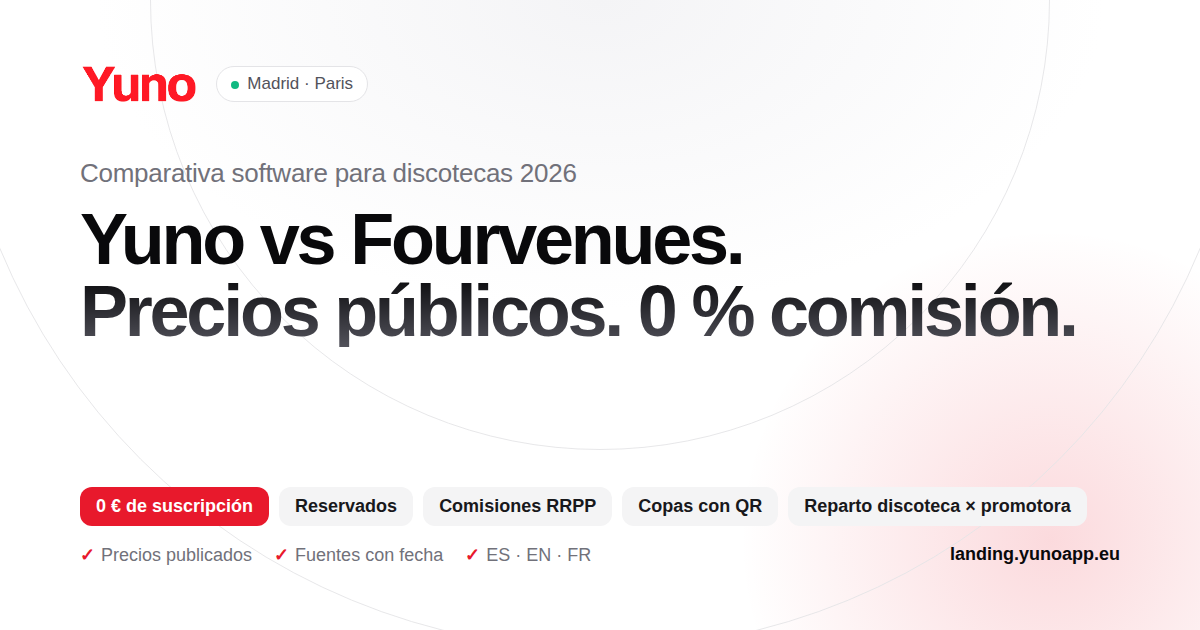
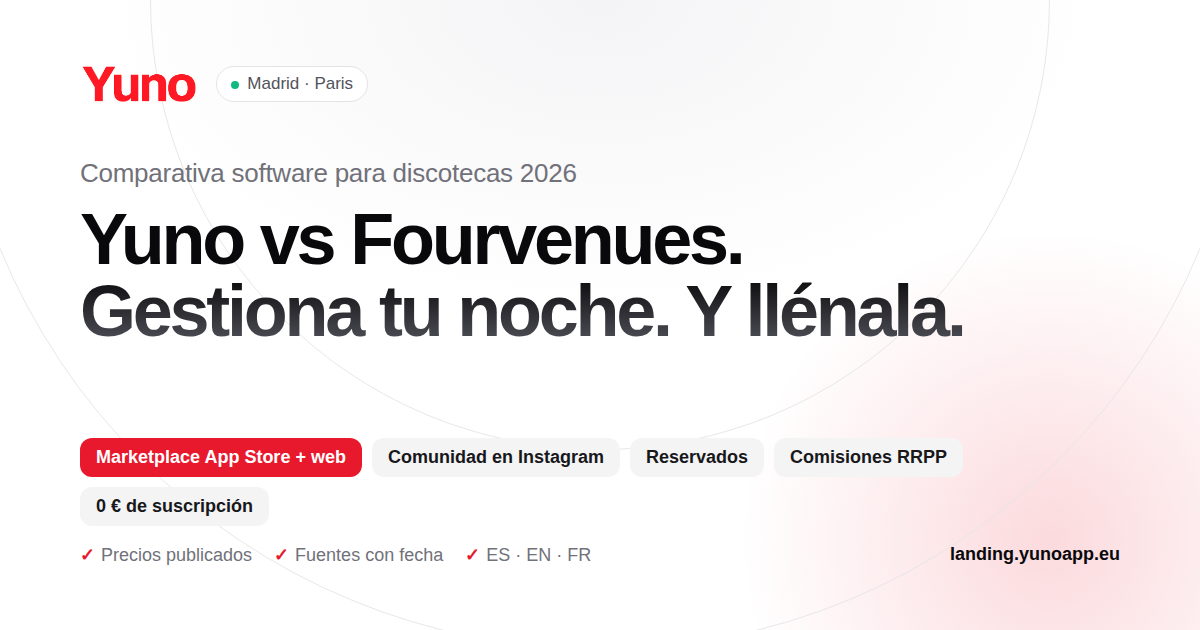
feat(seo): lead the Fourvenues comparison on community and the public side
- /es/alternativa-fourvenues now opens on what the public lives: Yuno's
  marketplace (App Store + web app) and Instagram community vs Fourvenues
  as a tool for the venue team (staff apps Pro/Access/POS, sales through
  venue/RRPP links and venue/city web pages). New rows: public app,
  discovery, community, how customers buy, bringing them back.
- Stated factually, with sources; no judgement of their customer
  experience (comparative-advertising rules).
- New FAQ: "¿Qué diferencia a Yuno de Fourvenues?", "¿Fourvenues tiene
  app para el público?"; new link-preview image; context doc updated.

Claude-Session: https://claude.ai/code/session_01B3VJ9spLMecaghWjZUoULt

diff --git a/src/content/compare.ts b/src/content/compare.ts
@@ -540,16 +540,16 @@ const fourvenuesEs: ComparePageContent = {
   competitor: "Fourvenues",
   updated: UPDATED,
   meta: {
-    title: "Alternativa a Fourvenues: precios públicos y 0 % de comisión | Yuno",
+    title: "Alternativa a Fourvenues con marketplace y 0 % de comisión | Yuno",
     description:
-      "¿Buscas una alternativa a Fourvenues? Compara precios, comisiones, reservados, RRPP y el reparto discoteca × promotora. Yuno: 0 € de suscripción y precios públicos.",
-    ogAlt: "Yuno vs Fourvenues — alternativa para discotecas, promotoras y RRPP",
+      "¿Buscas una alternativa a Fourvenues? Yuno gestiona tu noche y además te trae público: marketplace en App Store y web, comunidad en Instagram. 0 € de suscripción.",
+    ogAlt: "Yuno vs Fourvenues — software para discotecas con marketplace y comunidad de público",
   },
   breadcrumb: { home: "Yuno", current: "Alternativa a Fourvenues" },
   hero: {
     kicker: "Yuno vs Fourvenues — software para discotecas, promotoras y RRPP",
-    title: "La alternativa a Fourvenues con precios públicos y 0 % de comisión.",
-    sub: "Fourvenues es un software muy completo para discotecas. Yuno cubre la noche entera — entradas, listas, reservados, copas con QR, puerta y comisiones de RRPP — con una diferencia: todos sus precios están publicados, no hay cuota y el dinero llega directo a tu cuenta.",
+    title: "La alternativa a Fourvenues que, además de gestionar tu noche, te trae público.",
+    sub: "Fourvenues es un software muy completo para que el equipo de una discoteca venda y gestione sus noches. Yuno hace lo mismo — entradas, listas, reservados, puerta, RRPP — y además construye una comunidad de público alrededor de tus noches: un marketplace en la App Store y en web app, un Instagram que publica con regularidad y cada comprador en tu propia base. Con precios públicos y 0 € de cuota.",
     primary: "Crear mi cuenta gratis",
     secondary: "Hablar con el fundador",
     updatedLabel: "Información pública revisada el 24 de septiembre de 2026",
@@ -557,20 +557,54 @@ const fourvenuesEs: ComparePageContent = {
   tldr: {
     title: "En resumen",
     items: [
-      "Precio: Fourvenues no publica sus tarifas en su web (hay que pedir una demo). Yuno sí: 0 € de suscripción, 0 % de comisión sobre tu precio y una tarifa de servicio que paga el cliente.",
-      "Las dos plataformas cubren entradas, listas, reservados y RRPP. Fourvenues añade un TPV propio; Yuno añade el pedido de copas desde el móvil.",
-      "Discoteca × promotora: en Yuno el contrato se firma en la plataforma y el cierre lo aprueban las dos partes. No hemos encontrado esta función en las páginas públicas de Fourvenues.",
-      "Cobros: con Yuno el dinero llega por Stripe Connect a tu propia cuenta, a tu nombre. Fourvenues no publica cómo ni cuándo cobra la discoteca.",
+      "Público: Yuno tiene un marketplace para el público (app en la App Store y web app) y una comunidad en Instagram que da visibilidad a las noches de la plataforma. Fourvenues es un software para el equipo del local: sus apps (Pro, Access y POS) son para el staff, y el público compra por los enlaces del local o de sus RRPP.",
+      "Compra: con Yuno, el cliente compra en 30 segundos, sin cuenta, con tarjeta o Apple Pay, recibe su QR en Apple Wallet, y vuelve a encontrar tus noches en el marketplace de Yuno.",
+      "Gestión: las dos plataformas cubren entradas, listas, reservados y RRPP. Fourvenues añade un TPV propio; Yuno añade el pedido de copas desde el móvil y el reparto discoteca × promotora firmado en la plataforma.",
+      "Precio: Fourvenues no publica sus tarifas (se contratan tras una demo). Yuno sí: 0 € de suscripción, 0 % de comisión sobre tu precio y una tarifa de servicio que paga el cliente.",
     ],
   },
   table: {
     eyebrow: "Comparativa",
     title: "Yuno vs Fourvenues, punto por punto.",
-    sub: "Lo que cada uno publica — sin inventar lo que no.",
+    sub: "Primero lo que vive el público, después lo que gestiona tu equipo. Solo lo que cada uno publica.",
     colCriterion: "Criterio",
     colYuno: "Yuno",
     colOther: "Fourvenues",
     rows: [
+      {
+        criterion: "App para el público",
+        yuno: "App Yuno en la App Store (iOS) y web app: el público descubre las noches y compra sus entradas.",
+        other:
+          "No encontramos app para el público en las tiendas: sus apps (Pro, Access y POS) son para el equipo del local.",
+        verdict: "yuno",
+      },
+      {
+        criterion: "Descubrimiento de tus noches",
+        yuno: "Marketplace Yuno (Madrid: 22 discotecas asociadas en la plataforma) además de tu página, tus RRPP y tus redes.",
+        other:
+          "Webs por local y páginas por ciudad en web.fourvenues.com (p. ej. «Discotecas Madrid»), además de los enlaces de venta del local y de sus RRPP.",
+        verdict: "yuno",
+      },
+      {
+        criterion: "Comunidad",
+        yuno: "Instagram de Yuno que publica con regularidad las noches de la plataforma para el público.",
+        other:
+          "Comunicación centrada en el software para profesionales («Nightlife Operating System»).",
+        verdict: "yuno",
+      },
+      {
+        criterion: "Cómo compra el cliente",
+        yuno: "Desde tu página, el enlace de un RRPP o el marketplace: 30 s, sin cuenta, tarjeta o Apple Pay, QR por email y en Apple Wallet.",
+        other:
+          "Por el enlace de venta del local o del RRPP (también enviado por WhatsApp o SMS) y la web de cada local.",
+        verdict: "tie",
+      },
+      {
+        criterion: "Que el cliente vuelva",
+        yuno: "Cada comprador entra en tu base; 9 automatizaciones (nueva noche, carrito abandonado, «te echamos de menos»…), 15.000 emails/mes incluidos.",
+        other: "CRM con envíos de email y SMS y segmentación por gasto y asistencia, según su web.",
+        verdict: "tie",
+      },
       {
         criterion: "Precios publicados",
         yuno: "Sí: todos, en la web.",
@@ -596,16 +630,10 @@ const fourvenuesEs: ComparePageContent = {
         verdict: "yuno",
       },
       {
-        criterion: "Entradas y listas",
-        yuno: "Tramos de precio, preventas, códigos promo, lista gratis hasta una hora, cupos, QR nominativos, Apple Wallet.",
+        criterion: "Entradas, listas y reservados",
+        yuno: "Tramos de precio, lista gratis hasta una hora, QR nominativos; plano interactivo con señal, botellas pre-pedidas y consumo mínimo en directo.",
         other:
-          "Venta de entradas con precios dinámicos y extras; listas de invitados unificadas en una app.",
-        verdict: "tie",
-      },
-      {
-        criterion: "Reservados y mesas VIP",
-        yuno: "Plano interactivo, packs, señal o pago en el local, botellas pre-pedidas, consumo mínimo en directo.",
-        other: "Mapa interactivo que centraliza las reservas de RRPP y canales, con fianzas.",
+          "Venta con precios dinámicos y extras; listas unificadas; mapa interactivo de reservados con fianzas.",
         verdict: "tie",
       },
       {
@@ -628,18 +656,6 @@ const fourvenuesEs: ComparePageContent = {
         verdict: "tie",
       },
       {
-        criterion: "CRM y marketing",
-        yuno: "Cada comprador entra en tu base; 9 automatizaciones, 15.000 emails/mes incluidos, ventas atribuidas a cada campaña.",
-        other: "CRM con envíos de email y SMS y segmentación por gasto y asistencia, según su web.",
-        verdict: "tie",
-      },
-      {
-        criterion: "Empezar",
-        yuno: "Cuenta en dos minutos; activa un pilar por noche (por ejemplo, solo la lista).",
-        other: "Demo personalizada con el equipo comercial.",
-        verdict: "yuno",
-      },
-      {
         criterion: "Trayectoria",
         yuno: "Lanzado en 2026 en Madrid (Amoris y 22 discotecas asociadas) y en París.",
         other:
@@ -648,35 +664,36 @@ const fourvenuesEs: ComparePageContent = {
       },
     ],
     footnote:
-      "Fuentes: páginas públicas de Fourvenues (web y centro de ayuda), su nota de prensa de octubre de 2025 y prensa económica, revisadas el 24 de septiembre de 2026. Las condiciones que Fourvenues ofrece a cada cliente pueden variar.",
+      "Fuentes: páginas públicas de Fourvenues (web, webs de venta y centro de ayuda), sus apps en las tiendas, su nota de prensa de octubre de 2025 y prensa económica, revisadas el 24 de septiembre de 2026. Las condiciones que Fourvenues ofrece a cada cliente pueden variar.",
   },
   about: {
-    eyebrow: "Fourvenues",
-    title: "¿Qué es Fourvenues?",
+    eyebrow: "Dos enfoques",
+    title: "Fourvenues gestiona la noche. Yuno también te trae a la gente.",
     paragraphs: [
-      "Fourvenues es un software valenciano para discotecas, festivales, promotoras y beach clubs, antes conocido como Discocil. Se presenta como una plataforma todo en uno que centraliza venta de entradas, TPV, taquilla y reservas con datos en tiempo real, con apps para el equipo (Pro, Access y POS).",
-      "Es un actor consolidado: levantó 6,5 millones de euros en 2023 con Base10 y los Angels de Juan Roig y anunció su llegada a Estados Unidos en octubre de 2025. Sus precios no se publican: se contratan tras una demo.",
-      "Yuno parte de la misma noche con otra lógica: precios públicos, 0 € fijos, el dinero directamente en la cuenta de cada uno por Stripe Connect y un contrato discoteca × promotora firmado dentro de la plataforma.",
+      "Fourvenues es un software valenciano para discotecas, festivales, promotoras y beach clubs, antes conocido como Discocil. Se presenta como una plataforma todo en uno para el equipo: venta de entradas, TPV, taquilla y reservas con datos en tiempo real, con apps para el staff (Pro, Access y POS). Es un actor consolidado, que levantó 6,5 millones de euros en 2023 y llegó a Estados Unidos en 2025.",
+      "Con Fourvenues, el público llega a tus noches por tus propios canales: el enlace de tu local, los de tus RRPP y las webs de venta. Es una herramienta pensada para que el club venda y gestione.",
+      "Yuno cubre la misma gestión, pero parte de otra idea: una noche se llena con una comunidad. Por eso Yuno tiene su propio marketplace para el público — una app en la App Store y una web app — y un Instagram que publica con regularidad las noches de la plataforma. El cliente descubre tus noches, compra en 30 segundos y entra en tu base, desde donde le vuelves a escribir para la siguiente.",
     ],
   },
   choose: {
     eyebrow: "Cuál elegir",
-    title: "Fourvenues o Yuno: depende de tu noche.",
+    title: "Fourvenues o Yuno: depende de lo que necesitas.",
     other: {
       title: "Fourvenues encaja si…",
       items: [
-        "Necesitas también un TPV de barra y taquilla del mismo proveedor.",
+        "Buscas sobre todo una herramienta de gestión interna, con TPV de barra y taquilla del mismo proveedor.",
+        "Tu público ya llega solo por tus RRPP y tus enlaces, y no necesitas más visibilidad.",
         "Gestionas un grupo de locales grande y prefieres un contrato a medida tras una demo.",
       ],
     },
     yuno: {
       title: "Yuno encaja si…",
       items: [
-        "Quieres saber lo que pagas antes de hablar con nadie: precios públicos, 0 € de cuota.",
+        "Quieres que el público descubra tus noches también fuera de tus canales: marketplace en App Store y web, comunidad en Instagram.",
+        "Quieres una compra rápida para tu cliente — sin cuenta, Apple Pay, QR en Apple Wallet — y un marketplace donde vuelve a encontrarte.",
+        "Quieres que cada comprador vuelva: base de clientes propia y emails automáticos que leen la noche en directo.",
         "Eres una promotora que trabaja con discotecas y quieres el reparto firmado y aprobado por las dos partes.",
-        "Quieres el dinero directamente en tu cuenta, a tu nombre.",
-        "Quieres empezar con un solo pilar — la lista, los reservados o la venta — sin cambiarlo todo.",
-        "Quieres vender también en París, con la plataforma en español, francés e inglés.",
+        "Quieres saber lo que pagas antes de hablar con nadie: precios públicos, 0 € de cuota, el dinero directamente en tu cuenta.",
       ],
     },
   },
@@ -704,6 +721,14 @@ const fourvenuesEs: ComparePageContent = {
     title: "Preguntas frecuentes sobre Fourvenues y Yuno",
     items: [
       {
+        q: "¿Qué diferencia a Yuno de Fourvenues?",
+        a: "Las dos plataformas gestionan la noche de una discoteca: entradas, listas, reservados, puerta y RRPP. La diferencia es el público: Yuno tiene su propio marketplace (app en la App Store y web app) y una comunidad en Instagram que da visibilidad a tus noches, mientras que Fourvenues es un software para el equipo del local, cuyo público compra por los enlaces del club y de sus RRPP. Yuno publica además sus precios: 0 € de suscripción y 0 % de comisión.",
+      },
+      {
+        q: "¿Fourvenues tiene app para el público?",
+        a: "En las tiendas de apps, las aplicaciones de Fourvenues (Fourvenues Pro, Access y POS) están pensadas para el equipo del local. El público compra a través de los enlaces de venta del local o de sus RRPP y de las webs de venta en web.fourvenues.com. Yuno tiene una app para el público en la App Store y una web app donde se descubren y se compran las noches.",
+      },
+      {
         q: "¿Cuánto cuesta Fourvenues?",
         a: "Fourvenues no publica sus precios en su web (consultado el 24 de septiembre de 2026): hay que solicitar una demo al equipo comercial. Yuno publica los suyos: 0 € de suscripción, 0 % de comisión sobre tu precio y una tarifa de servicio que paga el cliente (4 % en entradas, mínimo 0,99 €).",
       },
@@ -717,25 +742,21 @@ const fourvenuesEs: ComparePageContent = {
       },
       {
         q: "¿Cuál es la mejor alternativa a Fourvenues para una promotora?",
-        a: "Una promotora que trabaja con varias discotecas necesita vender entradas, listas y reservados, pagar a sus RRPP y repartir la noche con cada club. Yuno lo hace en una sola cuenta, con el contrato discoteca × promotora firmado en la plataforma, 0 € de suscripción y precios públicos.",
-      },
-      {
-        q: "¿Cómo se pagan las comisiones de los RRPP en Yuno?",
-        a: "Cada RRPP recibe un enlace personal por noche. Cada entrada, mesa o inscrito en lista que trae se le atribuye en directo, su comisión se calcula sola y se liquida en tres pasos registrados con fecha y hora. Yuno nunca toca los fondos.",
+        a: "Una promotora que trabaja con varias discotecas necesita público, además de herramientas: vender entradas, listas y reservados, pagar a sus RRPP, repartir la noche con cada club y darse a conocer. Yuno lo hace en una sola cuenta, con un marketplace para el público, el contrato discoteca × promotora firmado en la plataforma, 0 € de suscripción y precios públicos.",
       },
       {
         q: "¿Puedo usar Yuno y Fourvenues a la vez?",
-        a: "Sí. Cada noche de Yuno se activa por pilares: puedes empezar solo con la lista o solo con los reservados y mantener el resto de tus herramientas hasta que decidas cambiar.",
+        a: "Sí. Cada noche de Yuno se activa por pilares: puedes empezar solo con la lista o solo con los reservados, publicar tus noches en el marketplace de Yuno y mantener el resto de tus herramientas hasta que decidas cambiar.",
       },
     ],
   },
   related: {
     title: "Sigue leyendo",
     links: [
-      { label: "Yuno frente a Xceed, Shotgun, Eventbrite, Weezevent y DICE", href: "/es#compare" },
+      { label: "El marketplace de Yuno (web app)", href: "https://yunoapp.eu" },
+      { label: "Yuno en Instagram", href: "https://www.instagram.com/yunoapp.eu/" },
       { label: "Precios de Yuno: 0 € de suscripción, 0 % de comisión", href: "/es#pricing" },
       { label: "Alternativa a Shotgun (EN)", href: "/alternative-shotgun" },
-      { label: "Alternative à Shotgun (FR)", href: "/fr/alternative-shotgun" },
     ],
   },
   sources: {
@@ -760,6 +781,10 @@ const fourvenuesEs: ComparePageContent = {
       {
         label: "Fourvenues — Free CRM software",
         url: "https://www.fourvenues.com/en/free-crm-software",
+      },
+      {
+        label: "Fourvenues — Web de venta «Discotecas Madrid»",
+        url: "https://web.fourvenues.com/en/discotecas-madrid/events",
       },
       {
         label: "Fourvenues — Nota de prensa, llegada a EE. UU. (oct. 2025)",

diff --git a/docs/yuno-context.md b/docs/yuno-context.md
@@ -111,6 +111,10 @@ night by channel and promoter, live view (who is on your page now, what just sol
 - First Paris send: 7,228 emails, 95.3% delivered, 23.9% opens, 0.015% complaints, 7/10 re-clicked the automatic follow-up.
 - Yuno marketplace: iOS app on the App Store + web app, where the public discovers nights; every
   buyer still joins the organizer's own customer base. Web remains a full purchase path.
+- Vs Fourvenues (closest in features), lead on community / the public side: Yuno marketplace (App
+  Store + web app) and an Instagram that posts the platform's nights regularly, vs Fourvenues as a
+  tool for the venue team (staff apps Pro/Access/POS, sales via venue/RRPP links and venue/city web
+  pages). State it factually; never call their customer experience bad (comparative-ad rules).
 
 ## Getting started (self-serve since 24 Sep 2026)
 Clubs and organizers create their account alone in ~2 minutes: every "Create my free account"
